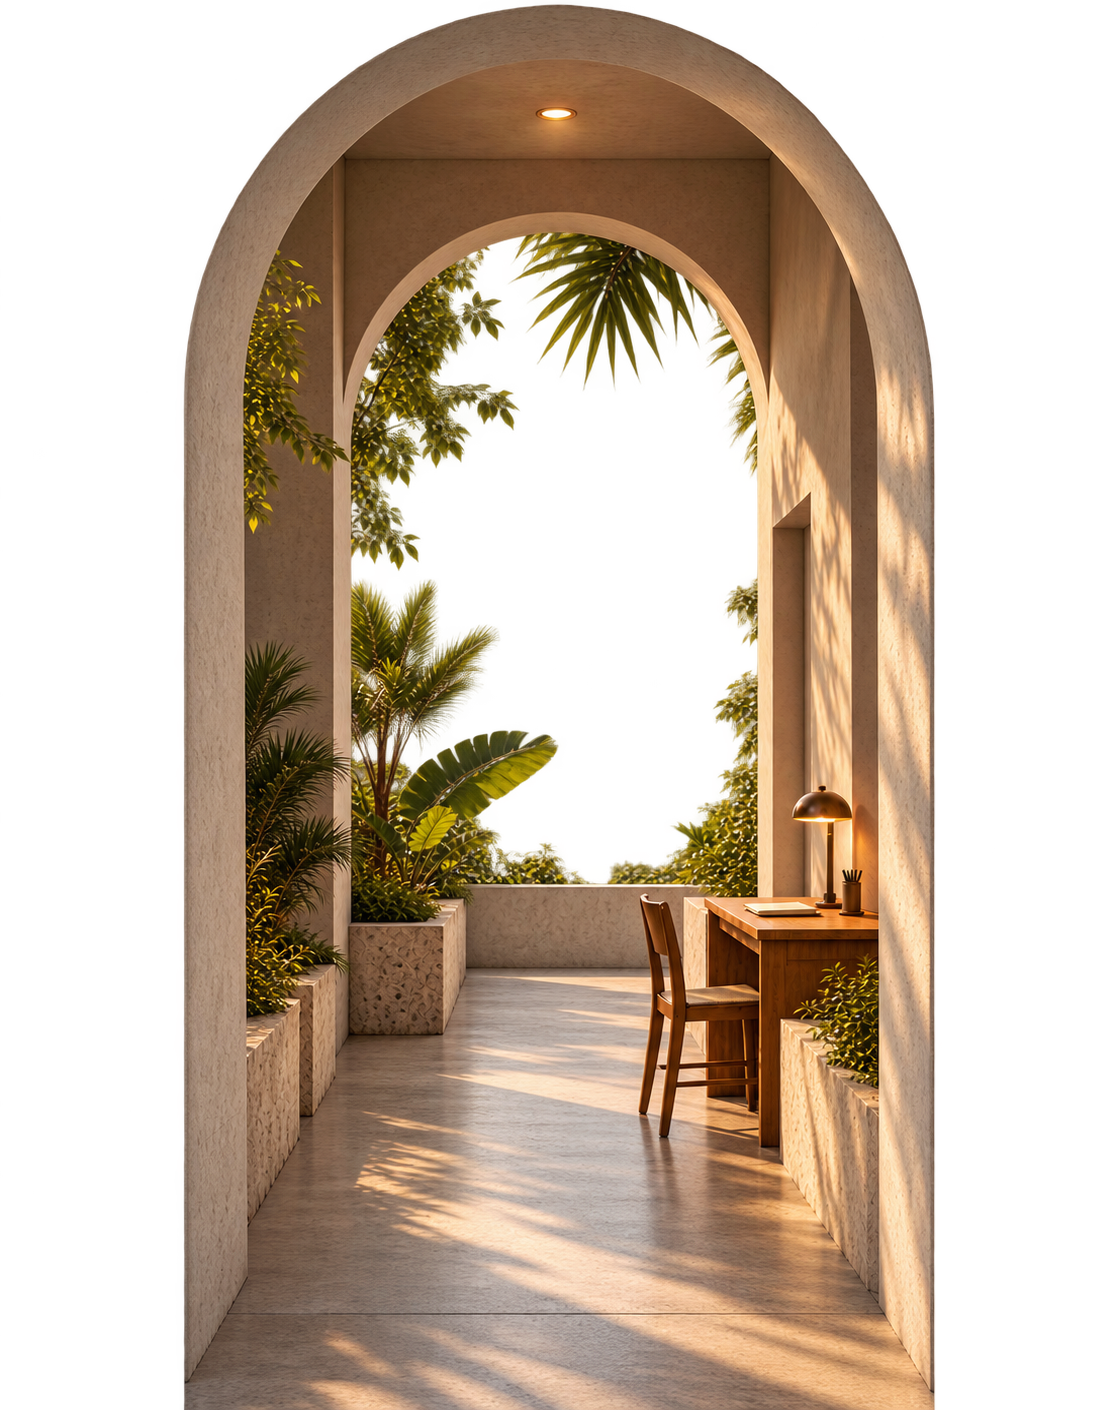
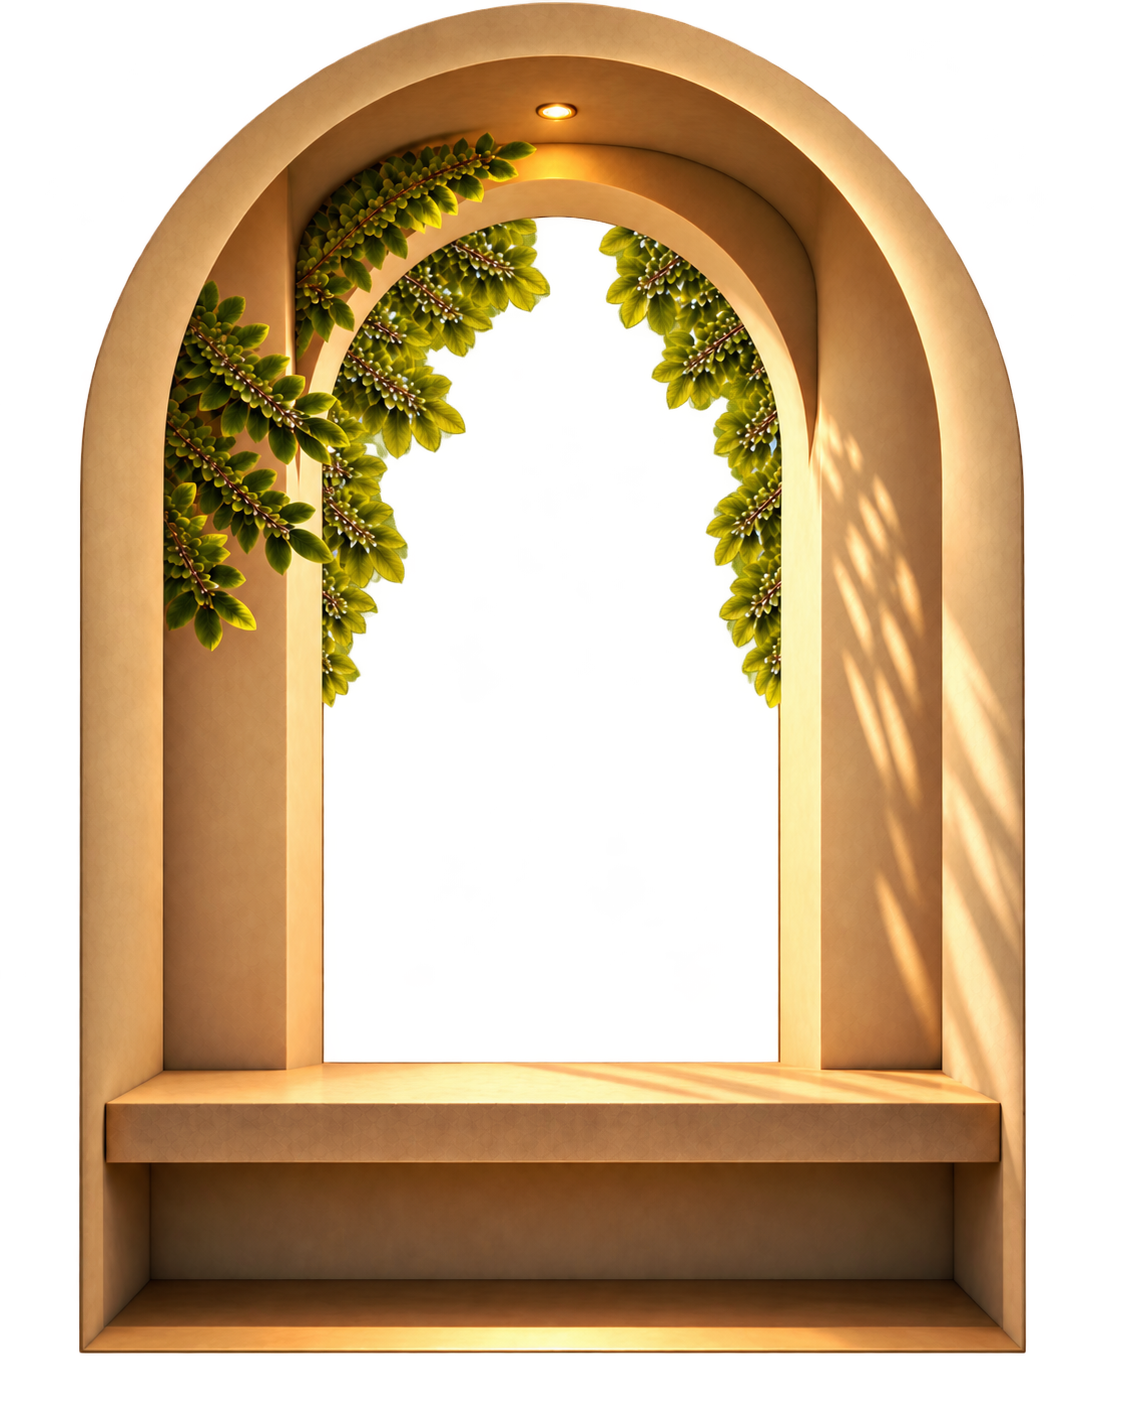
feat(top): Contact のアーチの奥を、海へ開いた窓辺に替える
- contact-arch-space.png を、天井の灯り・窓を縁取る葉・腰掛けられる台のある窓辺の画像に差し替える
- 窓の部分は透過していて、奥に TOP 共通の空と海（時間帯の光を含む）が見える
- 画像の寸法（1122 x 1402）に合わせ、窓が開口部の中央に来るよう切り取り位置を直す
- デスクがなくなったので、灯りに触れるコメントを合わせる

Claude-Session: https://claude.ai/code/session_017vAGcMKDt1vsXetiVkx2rV

diff --git a/components/top/scene.ts b/components/top/scene.ts
@@ -130,18 +130,18 @@ export const ARCHES: Arch[] = [
     opening: { x: 1083, y: 418, width: 149, height: 404 },
     body: { x: 1023, y: 340, width: 307, height: 300 },
     /*
-     * 展示を見終えて外とつながる、半屋外の小さな場所（デスク・椅子・植物）。
-     * 画像は空と海の部分を透過してあり、そこから TOP 共通の空・海（Sky.tsx。時間帯の光を含む）がそのまま見える。
-     * 開口部の高さを下端の植物まで覆う倍率にし、デスクとライトが入るよう少し右寄りを切り取る。
+     * 展示を見終えて外とつながる、小さな窓辺（天井の灯り・窓を縁取る葉・腰掛けられる台）。
+     * 画像は窓の部分を透過してあり、そこから TOP 共通の空・海（Sky.tsx。時間帯の光を含む）がそのまま見える。
+     * 開口部の高さを覆う倍率にし、窓が開口部の中央に来るよう左右を均等に切り取る。
      * 上端は画像自身のアーチの頂点より少し上へずらし、開口部の頂点に隙間（奥の空）が覗かないようにする
      */
     interior: {
       kind: "image",
       src: "/images/top/contact-arch-space.png",
-      width: 1116,
-      height: 1410,
+      width: 1122,
+      height: 1402,
       light: "outdoor",
-      frame: { left: "-64%", top: "-3%", width: "220%" },
+      frame: { left: "-59%", top: "-2%", width: "220%" },
     },
   },
 ];
@@ -172,7 +172,7 @@ export type TopAmbient = {
   interiorFilter: string;
   /**
    * Contact の半屋外の場所（画像は夕方の光で描いてある）。sepia → brightness → contrast。
-   * 朝〜夕方は建物と同じ外光に寄せ、夜・深夜は天井とデスクの灯りがあるので、About / Work の室内灯（interiorFilter）と同じ明るさにする
+   * 朝〜夕方は建物と同じ外光に寄せ、夜・深夜は天井の灯りがあるので、About / Work の室内灯（interiorFilter）と同じ明るさにする
    * （建物と同じ深夜の brightness(0.33) や、中間の 0.6 では、灯りの点いた場所に見えず暗く感じた）
    */
   outdoorRoomFilter: string;

diff --git a/components/top/TopHero.module.css b/components/top/TopHero.module.css
@@ -679,7 +679,7 @@
 
 /*
  * Contact の半屋外の場所。朝〜夕方は建物と同じ外光に寄せ、夜・深夜は About / Work の室内灯と同じ明るさにする（scene.ts）。
- * 天井とデスクのライトも今は画像ごと同じ明るさになる。時間帯でライトだけを強めるときは、
+ * 天井のライトも今は画像ごと同じ明るさになる。時間帯でライトだけを強めるときは、
  * ライトの範囲のマスクを用意し、建物の夕方の光（LayeredBuilding の .light）と同じ形で暖色を足す
  */
 .archImage[data-light="outdoor"] {
